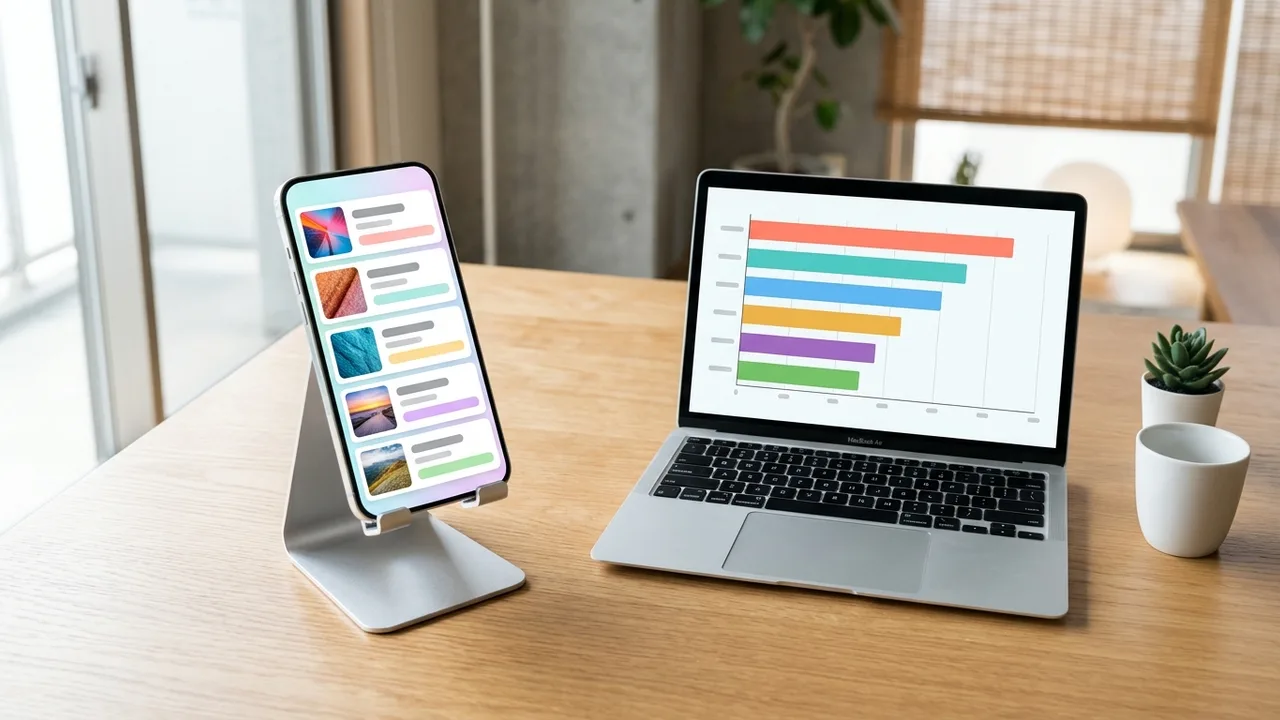
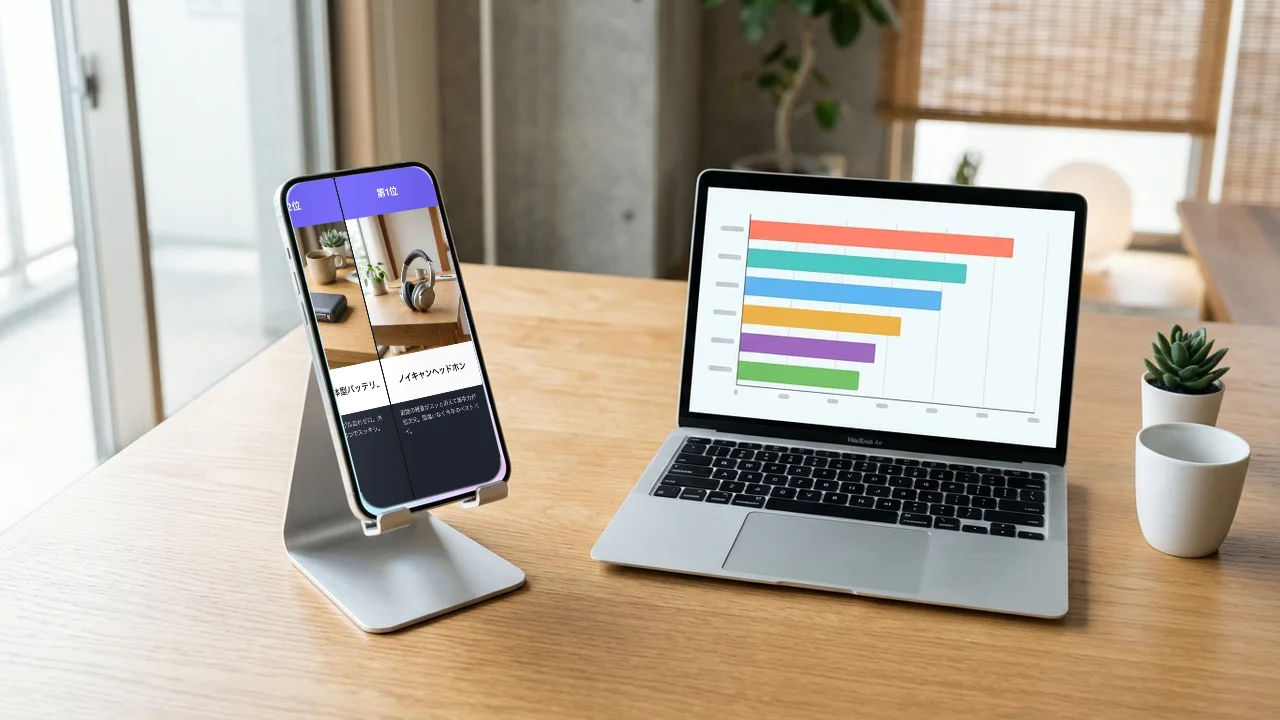
blog: スマホ画面差し替えとバーチャートレース模擬データ（よく読まれた記事TOP10）を更新

Changed region(s): [[0.2188, 0.2139, 0.4062, 0.7028]]

diff --git a/blog/year-end-ranking-video/index.html b/blog/year-end-ranking-video/index.html
@@ -445,7 +445,7 @@
             <li><a href="#s1">2026年の振り返りランキング動画は2つの表現タイプから選ぶ</a></li>
             <li><a href="#s2">伸びる「2026年 今年の○○ランキング」企画ネタ15選</a></li>
             <li><a href="#s3">【作り方①】ランキング動画メーカーで「2026年買ってよかったものTOP10」を作る</a></li>
-            <li><a href="#s4">【作り方②】バーチャートレースで「2026年 チャンネル企画ジャンル別・累計再生数推移」を作る</a></li>
+            <li><a href="#s4">【作り方②】バーチャートレースで「2026年 よく読まれた記事TOP10」の推移を作る</a></li>
             <li><a href="#s5">12月のYouTube・SNSで振り返りランキング動画を伸ばす5つのコツ</a></li>
             <li><a href="#s6">よくある質問（FAQ）</a></li>
             <li><a href="#s7">まとめ</a></li>
@@ -660,7 +660,7 @@
           </div>
         </div>
 
-        <h2 id="s4">【作り方②】バーチャートレースで「2026年 チャンネル企画ジャンル別・累計再生数推移」を作る</h2>
+        <h2 id="s4">【作り方②】バーチャートレースで「2026年 よく読まれた記事TOP10」の推移を作る</h2>
 
         <figure class="fig">
           <picture>
@@ -669,42 +669,49 @@
               alt="バーチャートレース作成ツールで生成した、項目ごとのカラフルな横棒グラフが順位を競いながら伸びていく画面イメージ"
               width="1600" height="900" loading="lazy" decoding="async">
           </picture>
-          <figcaption>バーチャートレース作成ツールの出力イメージ。1月〜12月の数値を入力すると、順位の入れ替わりが滑らかなアニメーションになります</figcaption>
+          <figcaption>バーチャートレース作成ツールの出力イメージ。1月〜12月の数値を読み込むと、順位の入れ替わりが滑らかなアニメーションになります</figcaption>
         </figure>
 
         <p>
-          次に、1年間の変化と逆転劇を見せられる<a href="../../bar-chart-race/">バーチャートレース作成ツール</a>の作り方です。ここでは架空のYouTubeチャンネルを例にした模擬題材<strong>「2026年 チャンネル企画ジャンル別・累計再生数推移（1月〜12月 / 単位：千回）」</strong>を使って説明します。
+          次に、1年間の変化と逆転劇を見せられる<a href="../../bar-chart-race/">バーチャートレース作成ツール</a>の作り方です。ここでは架空の暮らし・ガジェット系メディアを例にした模擬題材<strong>「2026年 よく読まれた記事TOP10（1月〜12月の累計PV推移 / 単位：千PV）」</strong>を使って説明します。
         </p>
 
         <p>
-          自分のチャンネルのアナリティクス、自社ブログの月別PV、趣味の月別出費などに置き換えてそのまま応用できます。
+          自分のブログやnoteの月別PV、YouTubeの動画別再生数、ECサイトの人気商品ランキングなどにもそのまま応用できます。
         </p>
 
-        <h3>ステップ1：1月〜12月の時系列データ（CSV）を用意する</h3>
+        <h3>ステップ1：1月〜12月の時系列データ（CSV形式テキスト）を用意する</h3>
         <p>
-          バーチャートレースに必要なのは「1列目に項目名、1行目に時間軸（2026年1月〜12月）、中身に数値」を入れたシンプルな表です。春はガジェットレビューが独走し、夏に旅行Vlogが急上昇、秋にショート検証企画が逆転し、12月にベストバイ企画が一気に追い上げる——という流れの模擬データを用意しました。以下のCSVをそのままコピーして試せます。
+          バーチャートレース作成ツールでは、<strong>「項目名,画像URL,2026/01,2026/02,…」</strong>の順で1月〜12月の数値を並べたデータを使います（画像URLは空欄のままでOKです）。
+        </p>
+        <p>
+          春は確定申告や新生活家電が独走し、夏に冷感グッズが急上昇、秋〜冬にかけてふるさと納税と「2026年買ってよかったもの」が一気に追い上げる——という流れの模擬データを用意しました。下のテキストはそのままコピーして、ツール内の<strong>「AIでデータを作る」</strong>画面から貼り付けて試せます。
         </p>
 
-        <pre class="csv-sample"><code>ジャンル,2026/01,2026/02,2026/03,2026/04,2026/05,2026/06,2026/07,2026/08,2026/09,2026/10,2026/11,2026/12
-ガジェットレビュー,18,35,54,72,88,102,115,128,142,158,175,198
-ショート検証企画,5,12,24,42,68,95,124,156,188,215,242,276
-旅行・お出かけVlog,8,14,22,38,62,84,118,162,180,192,204,218
-ベストバイ・購入品,12,20,28,36,45,58,72,85,98,118,165,245
-100均・便利グッズ,15,28,40,52,64,78,90,104,116,128,140,152
-作業用・ルーティン,10,19,29,39,48,59,70,80,92,103,115,128
-料理・時短レシピ,9,17,26,35,44,54,65,75,86,98,112,130
-アプリ・ツール紹介,14,26,38,49,60,72,82,92,102,114,126,141
-質問コーナー・雑談,4,9,15,21,28,34,42,50,58,67,78,92
-コラボ・対談企画,0,0,16,28,35,48,60,78,96,112,125,148</code></pre>
+        <pre class="csv-sample"><code>タイトル: 2026年 よく読まれた記事TOP10
+出典: 架空メディアの模擬データ
+単位: 千PV
+
+項目名,画像URL,2026/01,2026/02,2026/03,2026/04,2026/05,2026/06,2026/07,2026/08,2026/09,2026/10,2026/11,2026/12
+ふるさと納税おすすめ返礼品,,8,14,20,26,33,42,54,70,98,136,192,268
+定番ガジェット愛用品まとめ,,22,43,64,85,106,126,146,166,185,204,224,246
+夏の冷感グッズ比較レビュー,,2,4,7,14,34,78,142,198,216,221,224,226
+新生活家電おすすめ10選,,14,46,108,164,180,187,192,196,200,204,208,212
+2026年買ってよかったもの,,0,0,0,0,0,12,24,38,54,78,132,205
+100均デスク収納アイデア,,16,31,46,61,76,92,108,124,140,156,172,188
+確定申告のやり方完全ガイド,,42,108,166,171,173,174,175,176,177,178,180,184
+梅雨の部屋干し対策まとめ,,6,11,17,28,64,124,148,154,158,161,164,167
+乾燥対策・加湿器おすすめ,,24,38,44,46,47,48,49,50,54,76,118,162
+秋の紅葉・温泉スポット10選,,3,5,7,9,11,13,16,22,48,96,142,150</code></pre>
 
         <div class="box note">
-          <span class="bt">手元にデータがないときは「AIでデータを作る」機能も使える</span>
-          <p style="margin-bottom:0">公開統計や一般トレンドを題材にしたい場合は、バーチャートレース画面内にある「AIでデータを作る」機能を使うと、テーマに合わせた時系列データのたたき台を素早く用意できます。数値の出典確認と微調整だけで済むため大幅な時短になります。</p>
+          <span class="bt">手元にデータがないときは「AIでデータを作る」機能で一から作れる</span>
+          <p style="margin-bottom:0">公開統計や一般トレンドを題材にしたい場合は、バーチャートレース画面の「データ」タブにある「AIでデータを作る」ボタンから、ChatGPTやGemini用の依頼文をコピーできます。返ってきたデータをそのまま貼り付けるだけで読み込めるため大幅な時短になります。</p>
         </div>
 
-        <h3>ステップ2：ツールにデータを貼り付けてプレビューする</h3>
+        <h3>ステップ2：「AIでデータを作る」画面に貼り付けて読み込む</h3>
         <p>
-          <a href="../../bar-chart-race/app/">バーチャートレース作成ツール</a>を開き、データ入力欄に先ほどのCSVを貼り付け（またはExcel/CSVファイルをアップロード）します。読み込みが終わるとすぐに1月〜12月のレースがプレビュー再生されます。
+          <a href="../../bar-chart-race/app/?ai=1">バーチャートレース作成ツール（データ貼り付け画面）</a>を開き、「データ」タブの<strong>「AIでデータを作る」</strong>内にある<strong>「3. AIの返事を貼り付けて読み込む」</strong>欄へ上の模擬データをそのまま貼り付けて「読み込む」を押します。タイトル・出典・単位と1月〜12月のデータが一括で反映され、すぐにプレビュー再生できます（手元のExcelやCSVファイルを読み込む場合は「データ (CSV / Excel)」から選択してください）。
         </p>
 
         <h3>ステップ3：12月のフィニッシュが映えるようにデザインを調整する</h3>
@@ -712,21 +719,21 @@
           年末振り返り動画として見やすくするため、次の3点だけ調整しておくと完成度が一段上がります。
         </p>
         <ul>
-          <li><strong>タイトルに年号と単位を入れる</strong>：「2026年 企画ジャンル別・累計再生数推移（千回）」のように冒頭で意味が伝わるようにする</li>
-          <li><strong>表示本数をTOP10に設定する</strong>：10本すべてを画面内に収めると、下位からの追い上げまでしっかり追える</li>
+          <li><strong>タイトルに年号と単位を入れる</strong>：「2026年 よく読まれた記事TOP10（累計PV / 千回）」のように冒頭で意味が伝わるようにする</li>
+          <li><strong>表示本数をTOP10に設定する</strong>：10本すべてを画面内に収めると、秋から年末にかけての追い上げまでしっかり追える</li>
           <li><strong>再生速度を20〜35秒前後に収める</strong>：1ヶ月あたり2〜3秒のペースにすると、順位が入れ替わる瞬間を視聴者が目で追いやすく、12月の最終結果にも余韻が残る</li>
         </ul>
 
         <h3>ステップ4：動画を書き出して投稿用に仕上げる</h3>
         <p>
-          調整が終わったら録画・書き出し機能で動画ファイルとして保存します。横型（16:9）でYouTubeの年末総括動画の冒頭に差し込んでも映えますし、縦型（9:16）で書き出して「夏に旅行Vlogが伸びたけど、年末はベストバイが爆伸びした！」といった短いテロップとBGMを乗せれば、そのままショート動画の1本になります。詳しい設定や表現テクニックは<a href="../how-to-make-bar-chart-race/">バーチャートレースの作り方完全ガイド</a>もあわせてご覧ください。
+          調整が終わったら録画・書き出し機能で動画ファイルとして保存します。横型（16:9）でYouTubeの年末総括動画やブログのまとめ記事に埋め込んでも映えますし、縦型（9:16）で書き出して「夏は冷感グッズが1位だったけど、年末にふるさと納税が大逆転！」といった短いテロップとBGMを乗せれば、そのままショート動画の1本になります。詳しい設定や表現テクニックは<a href="../how-to-make-bar-chart-race/">バーチャートレースの作り方完全ガイド</a>もあわせてご覧ください。
         </p>
 
         <div class="cta">
           <span class="bt">模擬データを貼り付けてバーチャートレースを試す</span>
-          <p>上のCSVデータをそのまま貼り付けるだけで、1月〜12月の順位が入れ替わる動く棒グラフをブラウザ上ですぐにプレビューできます。</p>
+          <p>上のデータをコピーして「AIでデータを作る」画面に貼り付けるだけで、1月〜12月の順位が入れ替わる動く棒グラフをブラウザ上ですぐにプレビューできます。</p>
           <div class="cta-actions">
-            <a class="cta-btn" href="../../bar-chart-race/">バーチャートレース作成ツールを開く</a>
+            <a class="cta-btn" href="../../bar-chart-race/app/?ai=1">データ貼り付け画面を開く</a>
           </div>
         </div>
 

diff --git a/blog/how-to-make-bar-chart-race/index.html b/blog/how-to-make-bar-chart-race/index.html
@@ -543,7 +543,7 @@
         <div class="reflinks">
           <a class="reflink" href="../year-end-ranking-video/">
             <span class="rl-t">2026年の振り返りランキング動画の作り方｜YouTube・SNS年末企画を無料で簡単に作成</span>
-            <span class="rl-d">1月〜12月の累計再生数推移の模擬データつきで、YouTube・SNS向けの年末振り返り動画の作り方を解説しています。</span>
+            <span class="rl-d">「2026年 よく読まれた記事TOP10」のサンプルCSVつきで、YouTube・SNS向けの年末振り返り動画の作り方を解説しています。</span>
           </a>
           <a class="reflink" href="../how-to-make-ranking-announcement-video/">
             <span class="rl-t">順位発表動画の作り方｜演出6タイプと無料ツール・素材まとめ</span>
